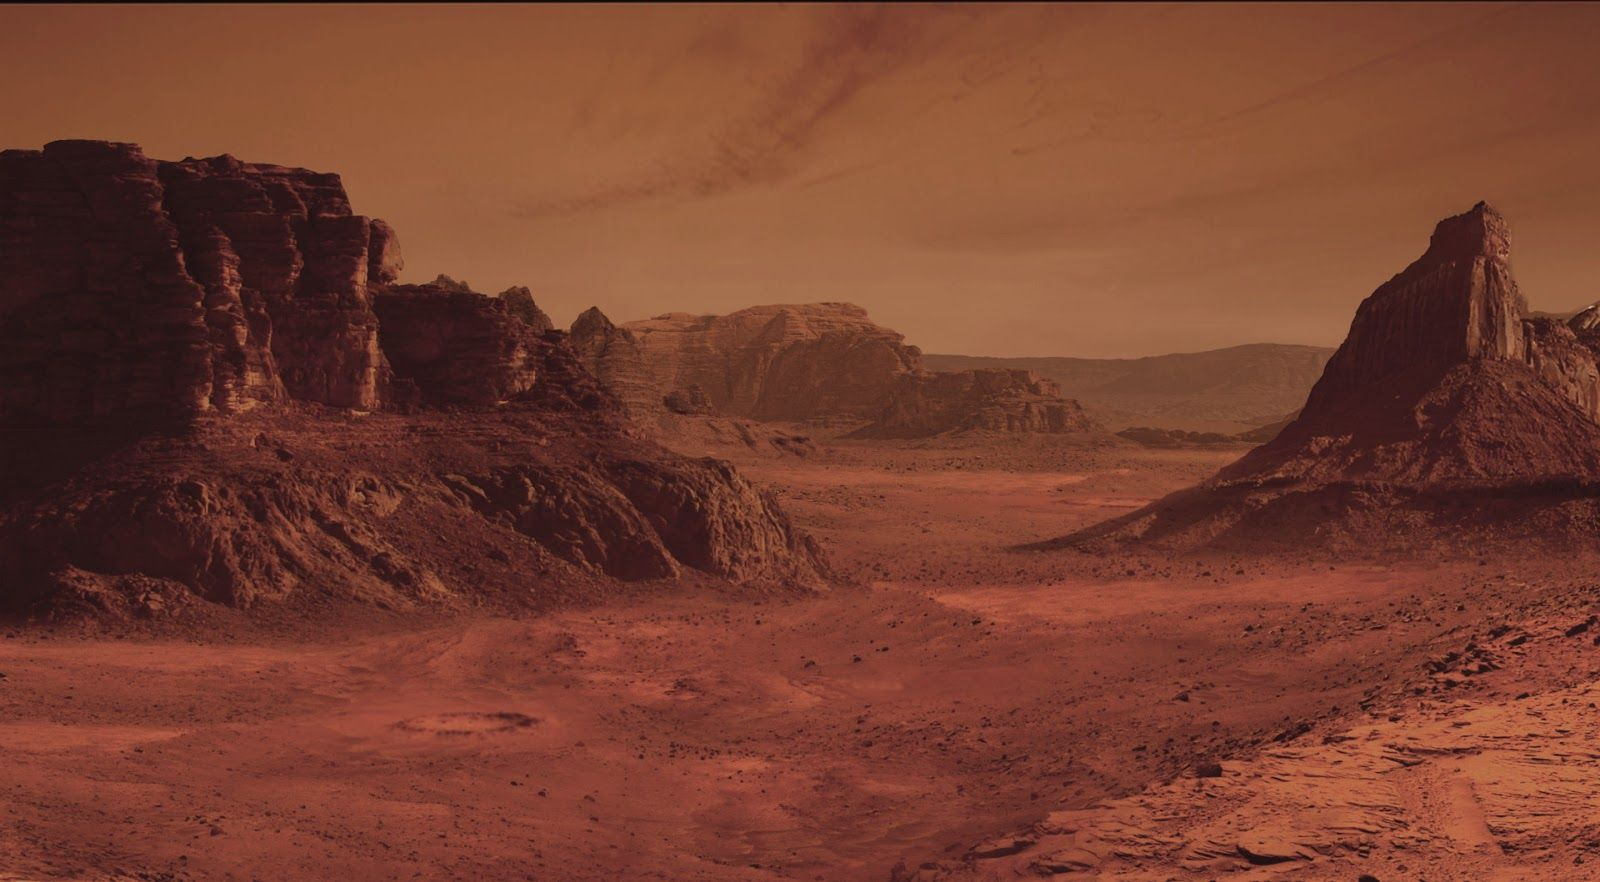
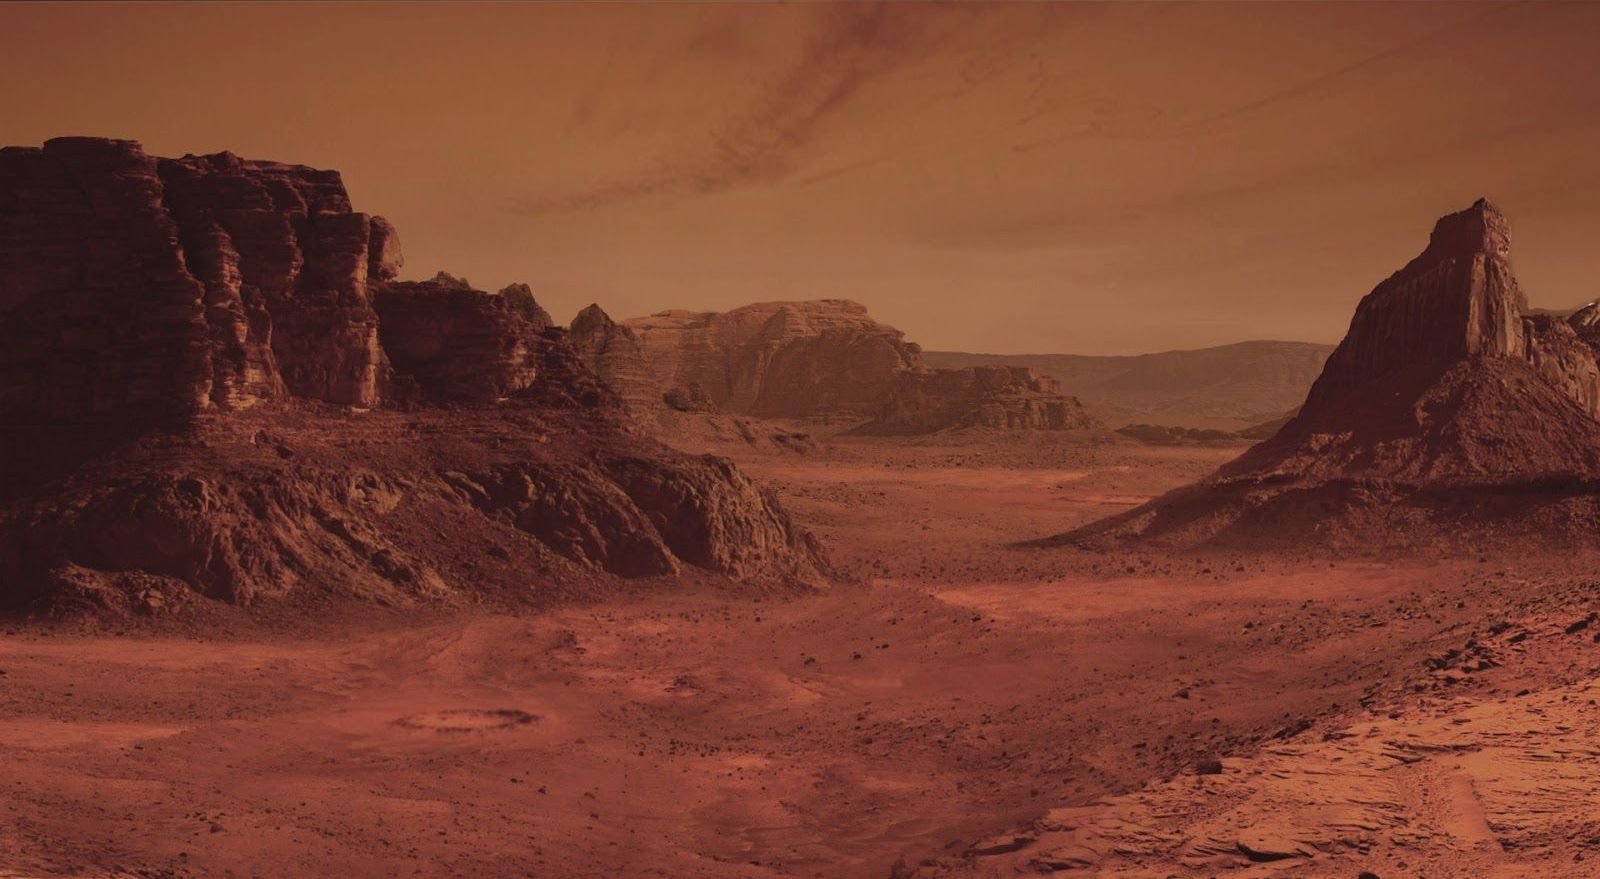
header and background changes

diff --git a/index.html b/index.html
@@ -8,30 +8,32 @@
     <title>Perseverance</title>
   </head>
   <body>
+
   	<header>
-  		<h1>P e r s e v e r a n c e</h1>
+  		<img src="images/logo_white.png">
+  		<h1>Perseverance</h1>
   	</header>
 
   	<main>
   			<div id="info">
 	  			<h2>O misji</h2>
-	  			<span class="bold">Nazwa misji: </span>Mars 2020 <br>
-	  			<span class="bold">Nazwa łazika: </span>Perseverance <br>
-	  			<span class="bold">Czas wystrzelenia: </span>30 lipca 2020, 11:50 UTC <br>
-	  			<span class="bold">Miejsce wystrzelenia: </span>
+	  			<span>Nazwa misji: </span>Mars 2020 <br>
+	  			<span>Nazwa łazika: </span>Perseverance <br>
+	  			<span>Czas wystrzelenia: </span>30 lipca 2020, 11:50 UTC <br>
+	  			<span>Miejsce wystrzelenia: </span>
 	  			<a href="https://pl.wikipedia.org/wiki/Cape_Canaveral_Space_Force_Station" target="_blank">CCSFS</a> <br>
-	  			<span class="bold">Czas lądowania: </span>18 lutego 2021, 20:55 UTC<br>
-	  			<span class="bold">Miejsce lądowania: </span><a href="https://geohack.toolforge.org/geohack.php?pagename=Perseverance_(rover)&params=18.4447_N_77.4508_E_globe:Mars" target="_blank">Krater Jezero<br> (18&deg; 26′ 41″ N, 77&deg; 27′ 3″ E)</a><br>
-	  			<span class="bold">Główny cel: </span> poszukiwania życia<br>
-	  			<span class="bold">Koszt: </span>2,75 miliarda USD <br>
-	  			<span class="bold">Inna nazwa: </span><span class="italic">Percy</span> <br>
+	  			<span>Czas lądowania: </span>18 lutego 2021, 20:55 UTC<br>
+	  			<span>Miejsce lądowania: </span><a href="https://geohack.toolforge.org/geohack.php?pagename=Perseverance_(rover)&params=18.4447_N_77.4508_E_globe:Mars" target="_blank">Krater Jezero<br> (18&deg; 26′ 41″ N, 77&deg; 27′ 3″ E)</a><br>
+	  			<span>Główny cel: </span> poszukiwania życia<br>
+	  			<span>Koszt: </span>2,75 miliarda USD <br>
+	  			<span>Inna nazwa: </span><span class="italic_span">Percy</span> <br>
 	  			<br>
 	  			<h2>Dane techniczne łazika</h2>
-	  			<span class="bold">Długość: </span>3 m <br>
-	  			<span class="bold">Szerokość: </span>2,7 m <br>
-	  			<span class="bold">Wysokość: </span>2,2 m <br>
-	  			<span class="bold">Moc: </span>110 W (0,15 KM) <br>
-	  			<span class="bold">Masa: </span>1 025 kg <br>
+	  			<span>Długość: </span>3 m <br>
+	  			<span>Szerokość: </span>2,7 m <br>
+	  			<span>Wysokość: </span>2,2 m <br>
+	  			<span>Moc: </span>110 W (0,15 KM) <br>
+	  			<span>Masa: </span>1 025 kg <br>
 	  		</div>
 
 	  		<div id="twitter_div">
@@ -64,7 +66,7 @@
 	  		<div id="name" class="text">
 	  			<h2>Nazwa</h2>
 	  			Na nazwę łazika został ogłoszony konkurs wśród uczniów szkół podstawowych i średnich z całego świata. Do JPL wpłynęło ponad 28 tysięcy propozycji. Zwycięzca, Alexander Mather, został wraz z rodziną zaproszony do Kennedy Space Center na wystrzelenie łazika. <br><br>
-	  			<span class="italic">Perseverance</span> oznacza <span class="italic">wytrwałość</span>, co ma symbolizować zapał ludzkości do eksploracji czerwonej planety
+	  			<span class="italic_span">Perseverance</span> oznacza <span class="italic_span">wytrwałość</span>, co ma symbolizować zapał ludzkości do eksploracji czerwonej planety
 	  		</div>
 
 	  		<div id="name_img">
@@ -84,7 +86,7 @@
 	  		</div>
 
 
-	  		<div id="nasa_links">
+	  		<div id="links">
 	  			<h2>Linki</h2>
 	  			<ul>
 	  				<li><a href="https://mars.nasa.gov/mars2020/" target="_blank">Strona główna misji</a></li>
@@ -94,6 +96,11 @@
 	  				<li><a href="https://en.wikipedia.org/wiki/Perseverance_(rover)#Landing_location_maps" target="_blank">Wikipedia Perseverance</a></li>
 	  				<li>Twitter NASA <a href="https://twitter.com/NASA?ref_src=twsrc%5Etfw" class="twitter-follow-button" data-show-count="false">Follow @NASA</a><script async src="https://platform.twitter.com/widgets.js" charset="utf-8"></script></li>
 	  				<li>Twitter Perseverance <a href="https://twitter.com/NASAPersevere?ref_src=twsrc%5Etfw" class="twitter-follow-button" data-show-count="false">Follow @NASAPersevere</a><script async src="https://platform.twitter.com/widgets.js" charset="utf-8"></script></li>
+	  			</ul>
+	  			<h2>Źródła</h2>
+	  			<ul>
+	  				<li><span>Zdjęcia: </span> NASA, Wikipedia</li>
+	  				<li><span>Informacje: </span> NASA</li>
 	  			</ul>
 	  		</div>
 

diff --git a/style.css b/style.css
@@ -1,5 +1,5 @@
 body {
-	background-image: url(images/background_logo.jpg);
+	background-image: url(images/background.jpg);
 	background-attachment: fixed;
 	background-size: cover;
 	color: #fff;
@@ -9,12 +9,20 @@ body {
 
 header {
 	text-align: center;
+	display: grid;
+	grid-template-columns: repeat(3, 1fr);
 	font-size: 35px;
 }
 
+header img {
+	width: 50%;
+}
+
+
 h1 {
-	margin: 20px 0;
+	margin: 50px 0;
 	font-weight: 300;
+	letter-spacing: 20px;
 }
 
 main {
@@ -30,7 +38,7 @@ main {
 	"goal_img goal"
 	"name name_img"
 	"instruments_img instruments"
-	"nasa_links nasa_img";
+	"links nasa_img";
 	padding: 30px;
 	border-radius: 8px;
 	font-size: 20px;
@@ -51,14 +59,16 @@ main img{
 	border-radius: 5px;
 }
 
+.italic_span {
+	font-style: italic;
+	font-weight: 400 !important;
+}
 
-.bold {
+#info span, #links span {
 	font-weight: 700;
 }
 
-.italic {
-	font-style: italic;
-}
+
 
 main a {
 	text-decoration: none;
